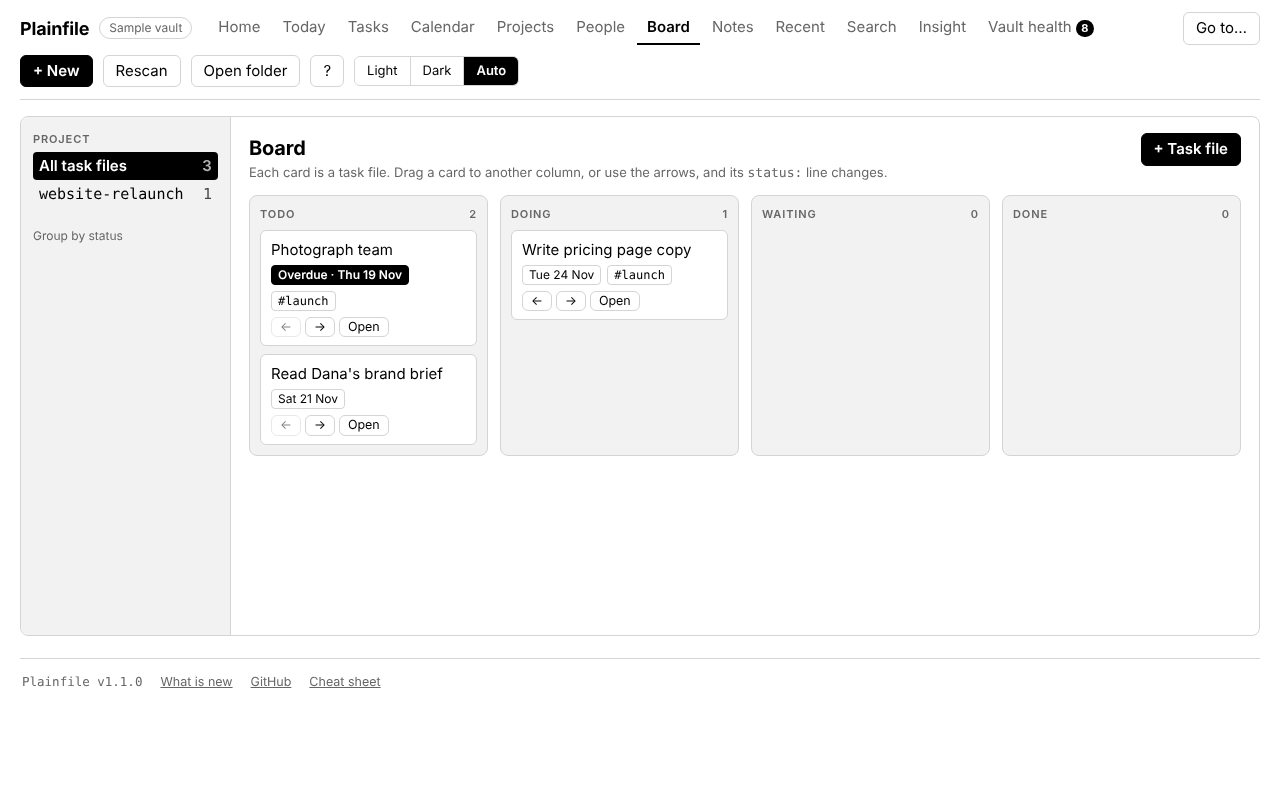
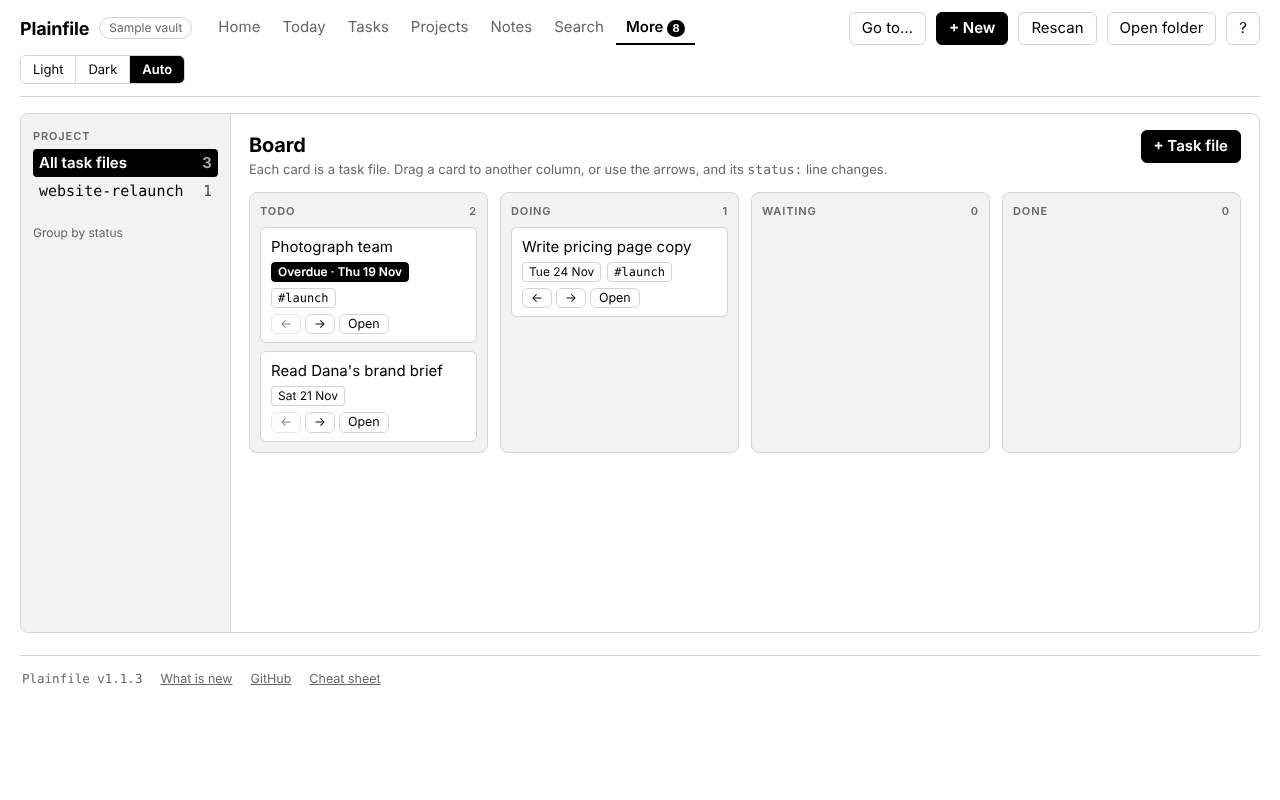
Shorter header: less-used tabs under a More menu (1.1.3) (#3)
Claude-Session: https://claude.ai/code/session_01R4FEdBw4QsP4joija6qyER

diff --git a/web/main.ts b/web/main.ts
@@ -92,20 +92,25 @@ function isCurrent(id: ScreenId): boolean {
 
 /* ---------- screens ---------- */
 
+/** The tabs used every day sit in the header; the rest are under More, so the bar stays short. */
 const NAV: { id: ScreenId; label: string }[] = [
   { id: 'home', label: 'Home' },
   { id: 'today', label: 'Today' },
   { id: 'tasks', label: 'Tasks' },
-  { id: 'calendar', label: 'Calendar' },
   { id: 'projects', label: 'Projects' },
+  { id: 'notes', label: 'Notes' },
+  { id: 'search', label: 'Search' },
+];
+const NAV_MORE: { id: ScreenId; label: string }[] = [
+  { id: 'calendar', label: 'Calendar' },
   { id: 'people', label: 'People' },
   { id: 'board', label: 'Board' },
-  { id: 'notes', label: 'Notes' },
   { id: 'recent', label: 'Recent' },
-  { id: 'search', label: 'Search' },
   { id: 'insight', label: 'Insight' },
   { id: 'health', label: 'Vault health' },
 ];
+/** Whether the header's More menu is open. */
+let navMoreOpen = false;
 
 async function go(screen: ScreenId): Promise<void> {
   await notes.flush();
@@ -216,6 +221,13 @@ function shell(): string {
   for (const n of NAV) {
     h += `<button class="navbtn" data-nav="${n.id}" aria-current="${isCurrent(n.id)}">${n.label}${n.id === 'health' && hc ? ` <span class="badge">${hc}</span>` : ''}</button>`;
   }
+  const inMore = NAV_MORE.some((n) => isCurrent(n.id));
+  h +=
+    `<span class="nav-more-wrap"><button class="navbtn nav-more" data-act="nav-more" aria-haspopup="menu" aria-expanded="${navMoreOpen}" aria-current="${inMore}">More${hc ? ` <span class="badge">${hc}</span>` : ''}</button>` +
+    (navMoreOpen
+      ? `<div class="nav-menu" role="menu">${NAV_MORE.map((n) => `<button role="menuitem" data-nav="${n.id}" aria-current="${isCurrent(n.id)}">${n.label}${n.id === 'health' && hc ? ` <span class="badge">${hc}</span>` : ''}</button>`).join('')}</div>`
+      : '') +
+    '</span>';
   h += '</nav><span class="grow"></span>';
   h += '<button class="btn" data-act="palette-open" title="Open a note or run an action" aria-label="Go to a note or action">Go to…</button>';
   h += '<button class="btn primary" data-act="new">+ New</button>';
@@ -398,8 +410,14 @@ app.addEventListener('click', (e) => {
       else sideOpen.add(toggle);
       return requestRender();
     }
+    // A click anywhere but the header More menu closes it.
+    if (navMoreOpen && !target.closest('.nav-more-wrap')) {
+      navMoreOpen = false;
+      requestRender();
+    }
     const nav = target.closest<HTMLElement>('[data-nav]')?.dataset.nav as ScreenId | undefined;
     if (nav) {
+      navMoreOpen = false;
       moreOpen = false;
       sideOpen.clear();
       return void go(nav);
@@ -415,6 +433,9 @@ app.addEventListener('click', (e) => {
         return void openSample(__SAMPLE_VAULT__);
       case 'new':
         return newmenu.openNew();
+      case 'nav-more':
+        navMoreOpen = !navMoreOpen;
+        return requestRender();
       case 'more-toggle':
         moreOpen = !moreOpen;
         return requestRender();
@@ -623,6 +644,14 @@ document.addEventListener(
   },
   true,
 );
+
+// The header More menu closes on Escape. This is on the document because redrawing the header drops the focus.
+document.addEventListener('keydown', (e) => {
+  if (e.key === 'Escape' && navMoreOpen) {
+    navMoreOpen = false;
+    requestRender();
+  }
+});
 
 document.addEventListener('keydown', (e) => {
   if (!state.index || state.busy) return;

diff --git a/tests/e2e/header.spec.ts b/tests/e2e/header.spec.ts
@@ -1,0 +1,32 @@
+import { expect, test } from '@playwright/test';
+import { openVault } from './helpers';
+
+test.beforeEach(async ({ page }) => {
+  await page.goto('/');
+});
+
+test.describe('the header on a wide screen', () => {
+  test('shows the everyday tabs, with the rest under More', async ({ page }) => {
+    await openVault(page, { 'a.md': '# A\n' }, true, 'home');
+    const nav = page.locator('.nav');
+    for (const t of ['Home', 'Today', 'Tasks', 'Projects', 'Notes', 'Search']) await expect(nav.getByRole('button', { name: t, exact: true })).toBeVisible();
+    for (const t of ['Calendar', 'People', 'Board', 'Recent', 'Insight']) await expect(nav.getByRole('button', { name: t, exact: true })).toHaveCount(0);
+  });
+
+  test('More opens a menu, goes to a screen, marks it current, and closes on Escape or an outside click', async ({ page }) => {
+    await openVault(page, { 'a.md': '# A\n' }, true, 'home');
+    const more = page.locator('.nav-more');
+    await more.click();
+    await expect(page.locator('.nav-menu')).toBeVisible();
+    await page.keyboard.press('Escape');
+    await expect(page.locator('.nav-menu')).toHaveCount(0);
+    await more.click();
+    await page.locator('.title, .home').first().click();
+    await expect(page.locator('.nav-menu')).toHaveCount(0);
+    await more.click();
+    await page.locator('.nav-menu').getByRole('menuitem', { name: 'Calendar' }).click();
+    await expect(page.locator('.nav-menu')).toHaveCount(0);
+    await expect(more).toHaveAttribute('aria-current', 'true');
+    await expect(page.locator('.cal-bar')).toBeVisible();
+  });
+});

diff --git a/web/app.css b/web/app.css
@@ -746,3 +746,10 @@ kbd { border: 1px solid var(--fg); border-radius: 4px; padding: 0 5px; font: 12p
 .hub-quick { display: flex; gap: 8px; margin: 0 0 6px; }
 .hub-quick .inp { flex: 1; min-width: 0; }
 .home-quick .quick-project, .hub-quick .quick-project { flex: 0 1 11rem; max-width: 11rem; }
+
+/* The header's More menu. */
+.nav-more-wrap { position: relative; display: inline-block; }
+.nav-menu { position: absolute; top: 100%; left: 0; z-index: 30; min-width: 11rem; padding: 4px; background: var(--bg); color: var(--fg); border: 1px solid var(--fg); border-radius: 8px; box-shadow: 4px 4px 0 var(--fg); display: flex; flex-direction: column; }
+.nav-menu button { background: none; border: 0; border-radius: 4px; padding: 6px 10px; text-align: left; color: inherit; font: inherit; cursor: pointer; display: flex; justify-content: space-between; gap: 12px; }
+.nav-menu button:hover, .nav-menu button:focus-visible { background: var(--fg); color: var(--bg); }
+.nav-menu button[aria-current='true'] { font-weight: 700; }

diff --git a/tests/e2e/helpers.ts b/tests/e2e/helpers.ts
@@ -122,6 +122,12 @@ export async function goTo(page: Page, name: RegExp | string): Promise<void> {
   }
   const top = page.locator('.nav').getByRole('button', { name });
   if (await top.isVisible()) return top.click();
+  // On a wide screen the less-used tabs are under the header's More menu.
+  const more = page.locator('.nav .nav-more');
+  if (await more.isVisible()) {
+    await more.click();
+    return page.locator('.nav-menu').getByRole('menuitem', { name }).click();
+  }
   if (!(await page.locator('.tabbar').count())) {
     // A note is open on a phone: the bar is out of the way, and All notes brings it back.
     const back = page.getByRole('button', { name: 'All notes' });

diff --git a/CLAUDE.md b/CLAUDE.md
@@ -63,7 +63,7 @@ Plainfile (working name) is the successor to **Notebook**, the single-file app t
 *   **Transparency:** After any write, show what changed on disk (the exact before and after lines).
 *   **Non-blocking health:** Vault health lists broken links, duplicates, orphans and unused attachments with one-click fixes. It never blocks work.
 *   **Reference design:** `docs/mockups.html` holds the planning mockups: Today, Board, Note, Editor, Live typing, Search, Templates, Vault health and Rename. All of them are built. The mockups predate the black and white rule and the decision to use X-ray instead of per-block source handles; follow this section where they differ.
-*   **Screens:** Home (the first screen), Today, Tasks (the project hub over every task in every project, with the one-line quick add; the place to start the day), Calendar, Projects (cards or a table, and a hub per project), People, Board, Notes (live editor), Recent (every note by last change), Search (with Explore, related content and a neighbourhood graph, as a switch inside it), Insight and Vault health are in the header navigation, with a ? button for the cheat sheet (`web/guide.ts`). What is new (the change log by version, no dates, `web/changelog.ts`) opens from the footer. The weekly review opens from Home. On a phone the header tabs become a bottom bar (Home, Today, Projects, Notes, More; Tasks is under More) and side panels fold behind a button. Every screen shows a footer with the app version. Rename opens from a note's header or from the banner shown when an outside rename is detected. + New and quick add create files. Each screen is one module in `web/`.
+*   **Screens:** Home (the first screen), Today, Tasks (the project hub over every task in every project, with the one-line quick add; the place to start the day), Calendar, Projects (cards or a table, and a hub per project), People, Board, Notes (live editor), Recent (every note by last change), Search (with Explore, related content and a neighbourhood graph, as a switch inside it), Insight and Vault health are in the header navigation (Home, Today, Tasks, Projects, Notes and Search in the bar; Calendar, People, Board, Recent, Insight and Vault health under its More menu), with a ? button for the cheat sheet (`web/guide.ts`). What is new (the change log by version, no dates, `web/changelog.ts`) opens from the footer. The weekly review opens from Home. On a phone the header tabs become a bottom bar (Home, Today, Projects, Notes, More; Tasks is under More) and side panels fold behind a button. Every screen shows a footer with the app version. Rename opens from a note's header or from the banner shown when an outside rename is detected. + New and quick add create files. Each screen is one module in `web/`.
 
 ## 6. Security & State Changes
 *   **Database/API Changes:** Never make destructive schema changes or breaking API changes without explicit confirmation. Check migrations, callers, and compatibility first.

diff --git a/CHANGELOG.md b/CHANGELOG.md
@@ -4,6 +4,11 @@ All notable changes to this project are documented here. Versions follow
 `MAJOR.MINOR.PATCH`. The version in `package.json` is bumped on every
 deploy-intended change, together with an entry here.
 
+## [1.1.3] - 2026-11-23
+
+### Changed
+- **A shorter header.** The everyday tabs (Home, Today, Tasks, Projects, Notes, Search) stay in the header. Calendar, People, Board, Recent, Insight and Vault health are under a **More** menu (with the Vault health count on it). It closes on Escape or a click elsewhere. Phones are unchanged (bottom bar).
+
 ## [1.1.2] - 2026-11-23
 
 ### Changed
